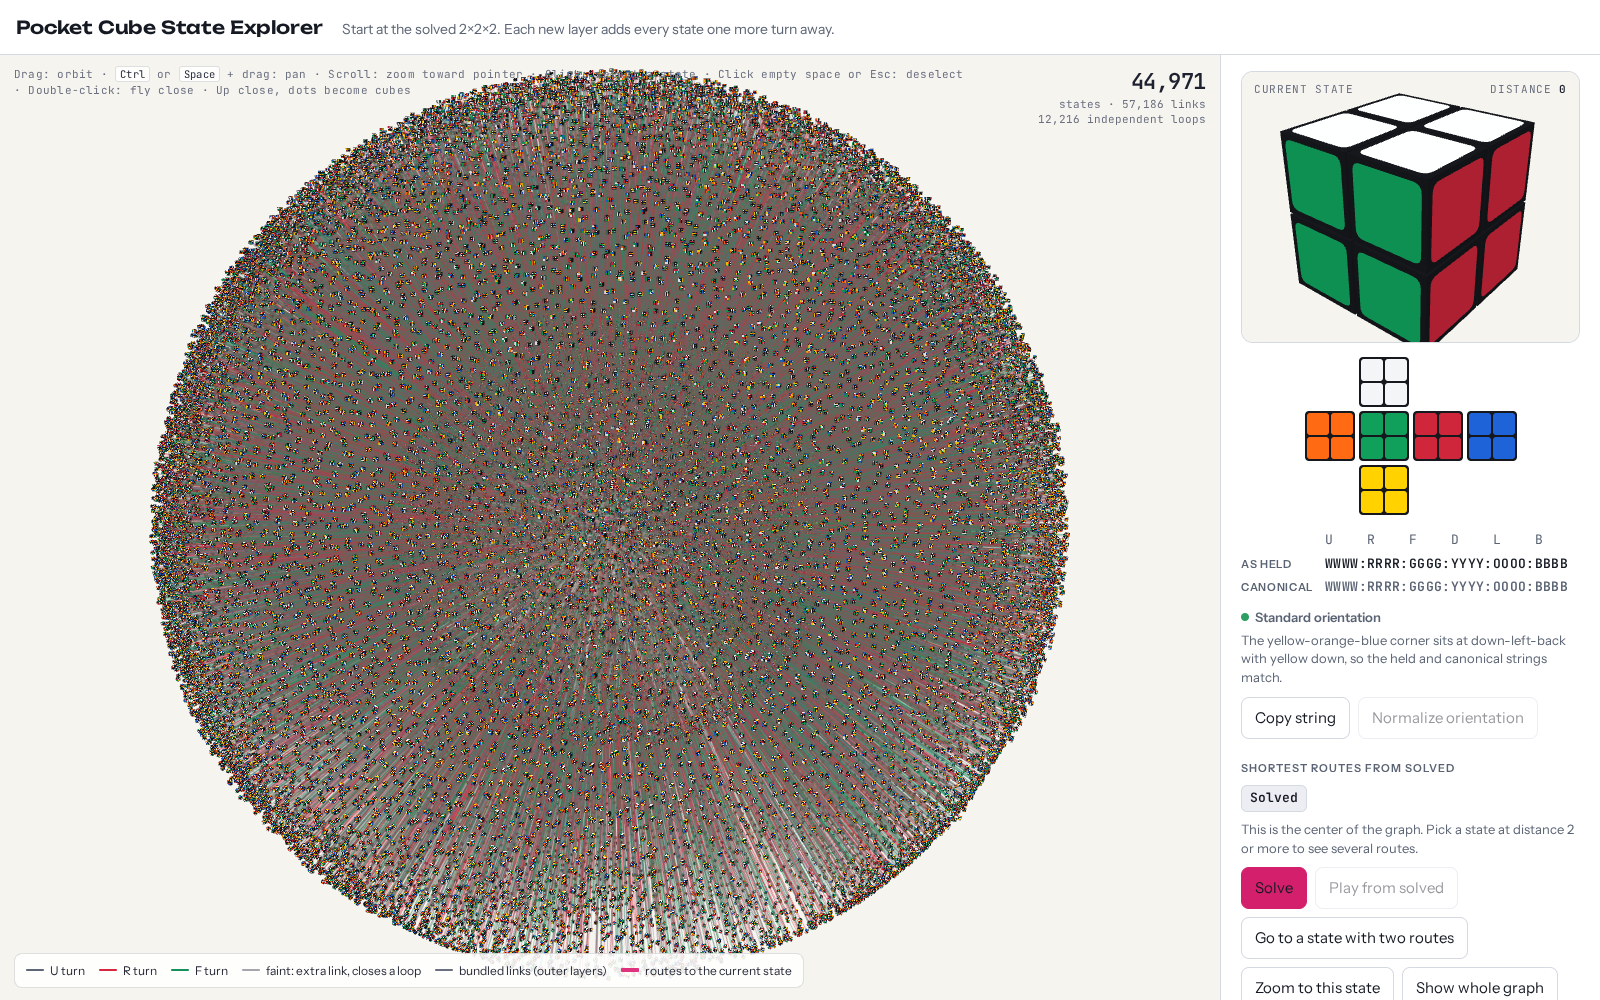
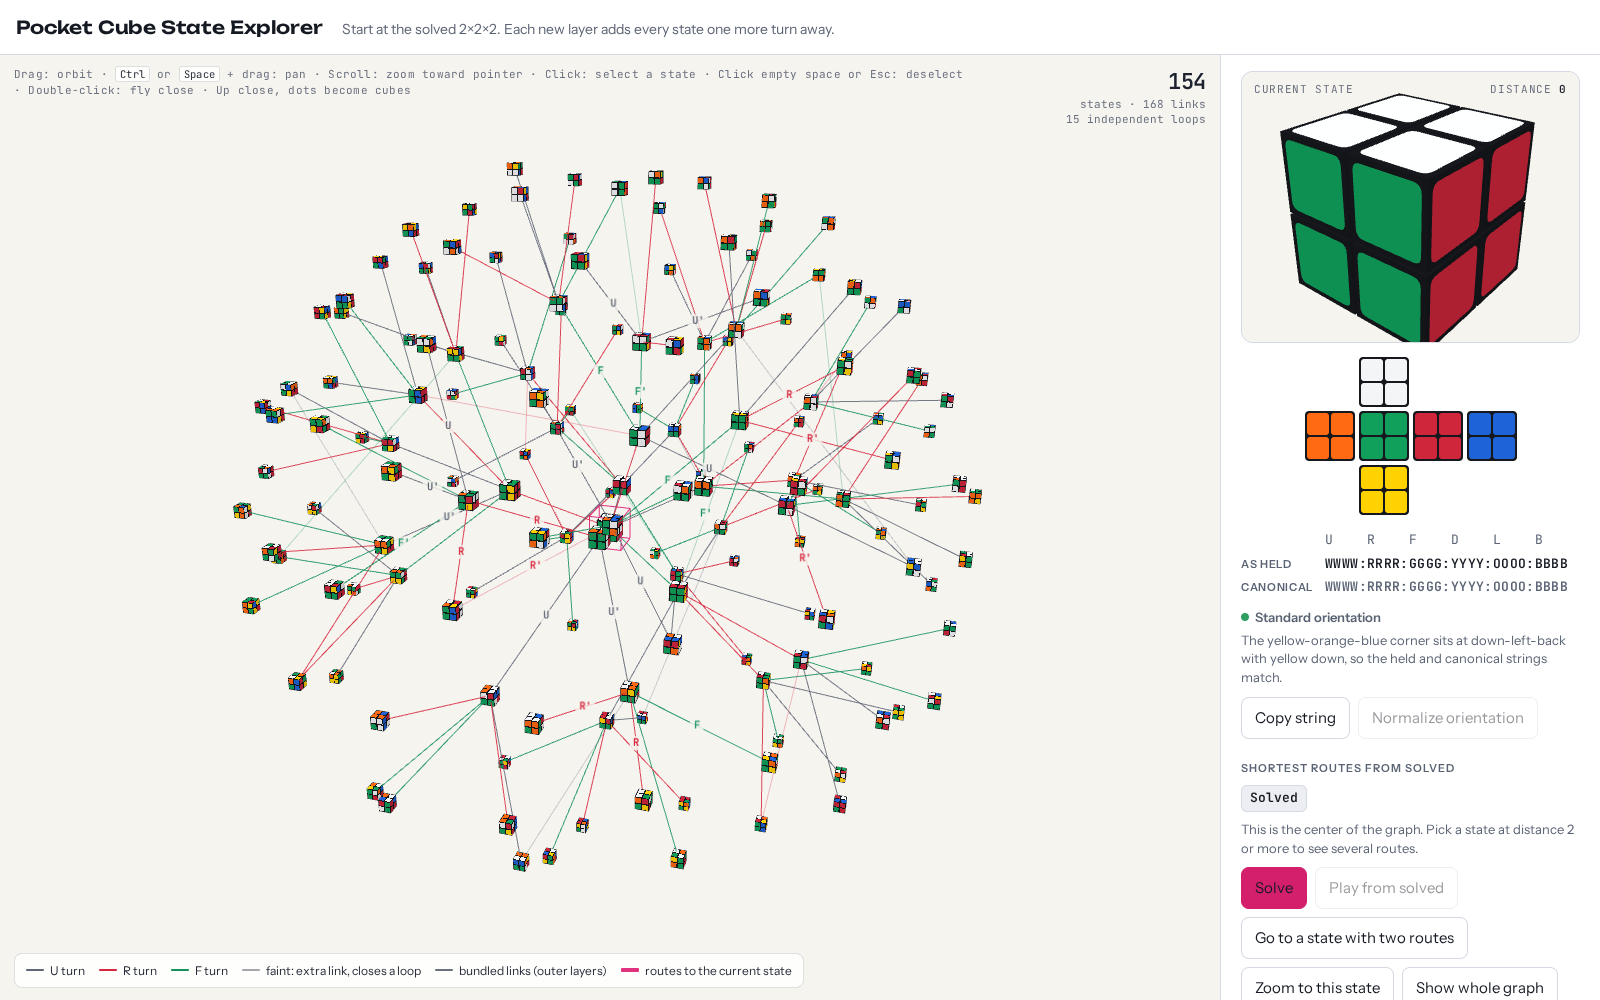
Show the first three layers in the README's first screenshot
Seven layers drew a dense ball; with three, the stickered cubes, the
coloured links and their turn labels are all readable.

diff --git a/scripts/screenshots.ts b/scripts/screenshots.ts
@@ -75,9 +75,9 @@ interface Scene {
 const shot = (name: string) => join(ROOT, 'docs/screenshots', name + '.png');
 const scenes: Scene[] = [
   {
-    name: 'overview', what: 'all 7 cube layers: 44,971 stickered cubes and their links',
+    name: 'overview', what: 'the first 3 layers: 154 stickered cubes, their links and turn labels',
     width: 1600, height: 1000, out: shot('overview'),
-    async run(page) { await growTo(page, 7); await settle(page, 12000); },
+    async run(page) { await growTo(page, 3); await settle(page, 9000); },
   },
   {
     name: 'routes', what: 'a scramble found in the graph: its shortest routes, links and turn labels up close',

diff --git a/README.md b/README.md
@@ -10,7 +10,7 @@ stickers, and a large animated cube walks you along any route through the graph.
 **Try it: [pocket-cube-state-explorer.vercel.app](https://pocket-cube-state-explorer.vercel.app)**
 (a desktop browser with WebGL works best).
 
-![All seven cube layers: 44,971 stickered cubes on nested spheres around the solved cube, joined by links coloured by their turn](docs/screenshots/overview.png)
+![The first three layers: 154 stickered cubes around the solved cube, joined by links coloured and labelled by their turn](docs/screenshots/overview.png)
 
 ## What you can do
 
